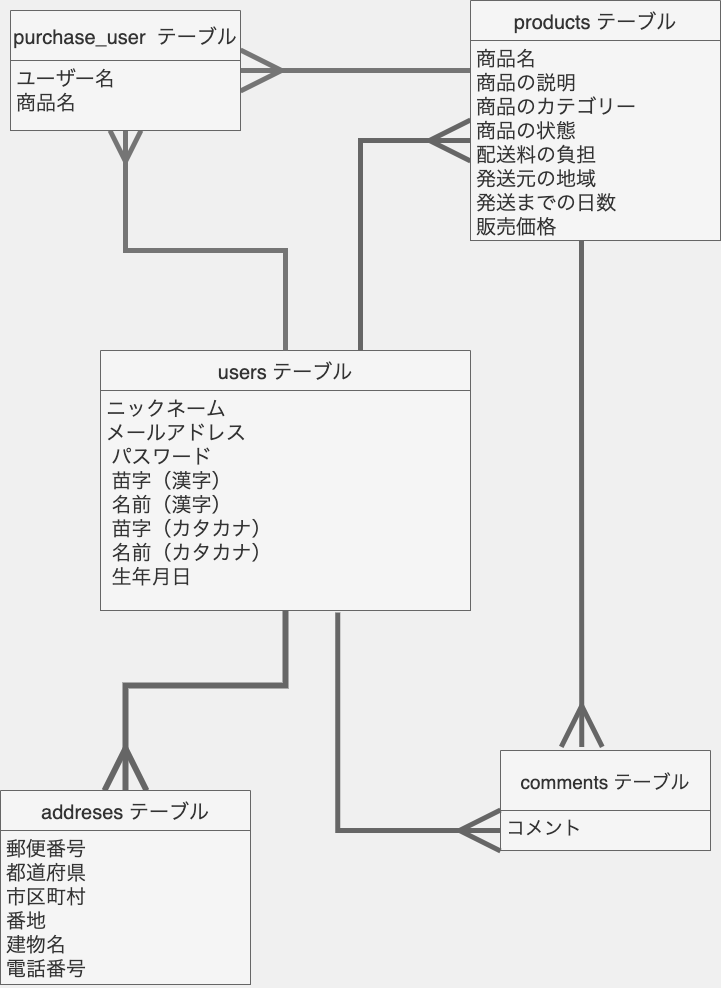
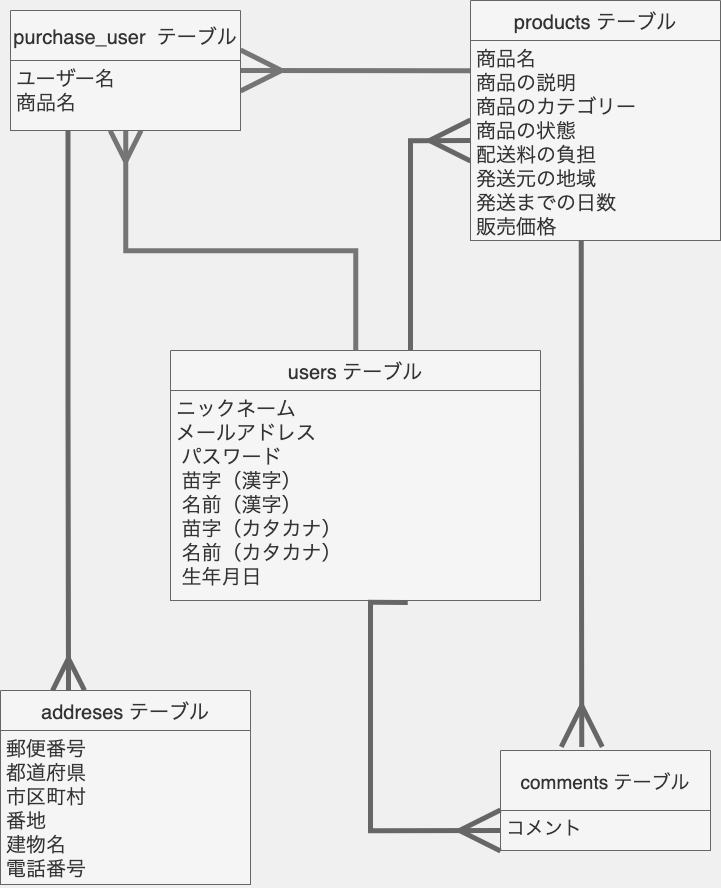
修正

Changed region(s): [[0.0, 0.0, 0.9459, 1.0], [0.9154, 0.7601, 0.9459, 0.8209], [0.9764, 0.2432, 1.0, 0.2736]]

diff --git a/README.md b/README.md
@@ -17,8 +17,7 @@
 
 - has_many :products
 - has_many :comments
-- has_many :addreses
-- has_many :purchase_user
+- has_many :purchase_users
 
 ## products テーブル
 
@@ -29,18 +28,16 @@
 | category_id         | integer    | null: false                    | 
 | status_id           | integer    | null: false                    | 
 | shipping_id         | integer    | null: false                    | 
-| sprefecture_id      | integer    | null: false                    | 
+| prefecture_id       | integer    | null: false                    | 
 | send_day_id         | integer    | null: false                    | 
 | price               | integer    | null: false                    | 
 | user                | references | null: false, foreign_key: true |
-| credit              | references |                                |
-| address             | references |                                |
 
 ### Association
 
 - has_many :comments
-- has_many :purchase_user
-- belongs_to :user
+- has_many :purchase_users
+- belongs_to :users
 
 ## comments テーブル
 
@@ -52,14 +49,14 @@
 
 ### Association
 
-- belongs_to :user
-- belongs_to :product
+- belongs_to :users
+- belongs_to :products
 
-  # address テーブル
+  # addreses テーブル
 
 | Column              | Type       | Options                        |
 | postal_code         | string     | null: false                    | 
-| prefecture          | integer    | null: false                    | 
+| prefecture_id       | integer    | null: false                    | 
 | city                | string     | null: false                    | 
 | flat_number         | string     | null: false                    | 
 | apartment           | string     |                                |
@@ -67,13 +64,15 @@
 | user                | references | null: false, foreign_key: true |
 
 ### Association
-- belongs_to :user
 
- # purchase_user テーブル
+- belongs_to :purchase_users
 
-| Column  | Type       | Options                        |
-| user    | references | null: false, foreign_key: true | 
-| product | references | null: false, foreign_key: true | 
+ # purchase_users テーブル
 
-- belongs_to :product
-- belongs_to :user
+| Column        | Type       | Options                        |
+| purchase_user | references | null: false, foreign_key: true | 
+| product       | references | null: false, foreign_key: true | 
+
+- belongs_to :products
+- belongs_to :users
+- has_many :addreses
